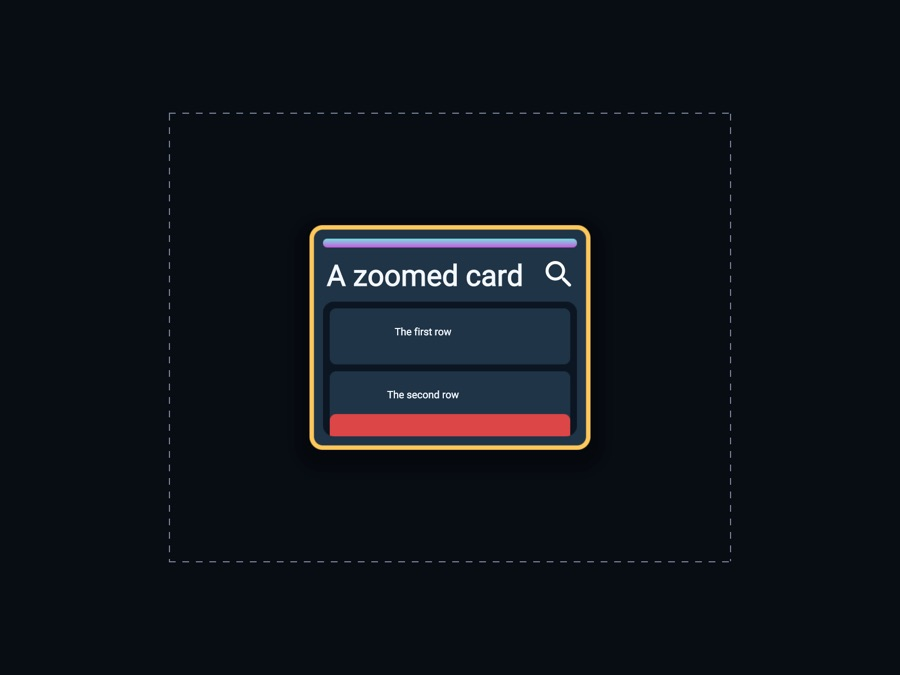
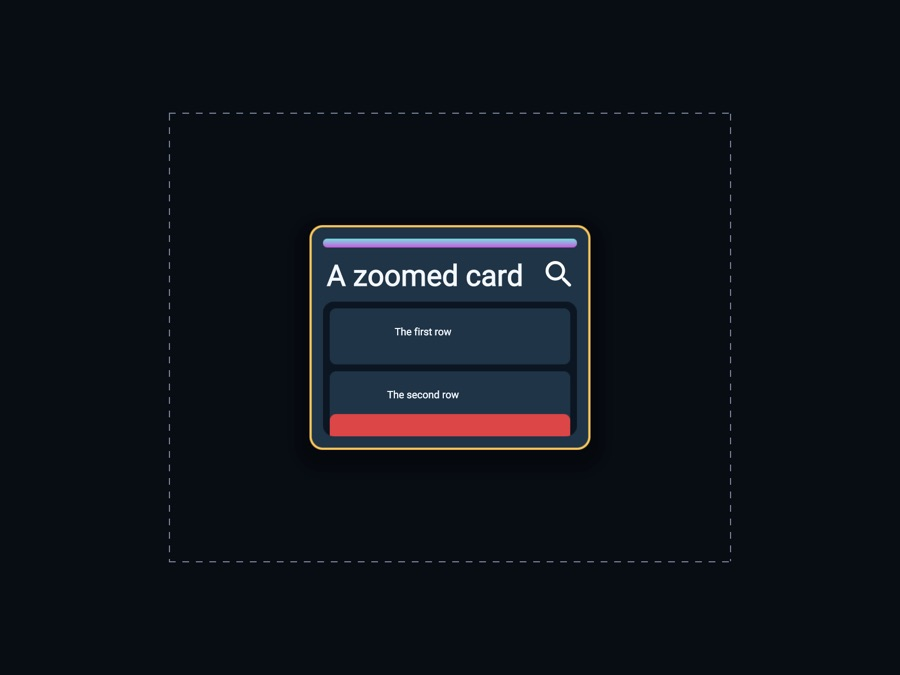
A stroke zooms with its box, and Shape.strokeFixed keeps it constant on screen
A zoomed subtree scaled everything but its strokes, so a card at 0.5 kept a stroke twice too heavy, and a
document in the UI editor did not preview its true weight. Width, dash and gap now scale. Scaling them
alone made the editor's frame and safe-area guides nearly vanish at 38% zoom, as they sit inside its
camera, so a Shape can say strokeFixed: true, like SVG's non-scaling-stroke. It is one declared property
and one test in the painter. The other option, a system that rewrites authored widths at each zoom, also
has to reach every such node. The editor's outlines and marquee are outside the camera and need nothing.

11 of the 121 references change, as document strokes get thinner at a low zoom. Each was compared with
the one before it: every change is inside the document area, none in the editor's panels.

Checks: full suite 1047 passed, with case 1364, written first, for the paint rule and the field's load
and save; gate 121 passed; checks/uiZoom and its pictures. 106 at rest is byte-identical to the commit
before, on the main and settings screens. No phone.

#26322266

Changed region(s): [[0.3422, 0.3111, 0.6533, 0.6844]]

diff --git a/QUEUE.md b/QUEUE.md
@@ -675,7 +675,7 @@ style decision from memory.
 - [x] #41374014 [ui animation 1/13: transforms] docs/ui-animation-design.md section 6. Make scale work on a subtree: TransformFx scale (and later the pose's) acts about the pivot in buildLocalTransforms, children fold through it, and shape, sprite, text, caret, clip, soft shadow, gradient, hit test and visualBounds all read one world rectangle helper (RenderPaintBox's own pivot move goes). A zoomed card with text, icons, a shadow and a clipped list must paint as one and be hit where it is drawn. Fixture for paint and hit test; screenshot at scale 0.5 and 1.2; 106 unchanged at rest. DONE in 0.3.17: buildLocalTransforms moves the origin for scale about the pivot, children fold through it; worldRectOf (lib/ui/Transform) is read by the paint box (shape, sprite, gradient, soft shadow), text, caret, clip, mask, hit test and the carousel and scroll pointer tests; RenderPaintBox keeps only the paint-only hover. A shadow blur and a text shadow offset scale; visualBoundsAt scales its cached measure instead of measuring each frame. NOT scaled: a stroke width. Scaling it made the UI editor guides nearly vanish at 38% zoom, so it is left as it was and queued as [ui zoom: strokes]. Case 1364, numbers worked by hand, written first; checks/uiZoom, pictures in docs/images/ui-zoom at 0.5, 1.0, 1.2. 106 at rest: 0 pixels differ old against new in equal fresh worktrees, main and settings screens. 121 references CardStrip and Coverage updated, since they recorded the old bug: the 1.06 card was cut by a misplaced clip and instance B and C text sat off their cards. Full suite: 1046 passed, 1 failed, 1269_relay_sessions, which flakes on the old code too, queued as [1269_relay_sessions flakes under load]; the run before the stroke revert passed all 1047. Gate 121 passed; gate 106 passed in fresh worktrees, and in the main checkout it fails on the idle step with the old code too, queued as [106: idle frames with local data]. No phone.
 - [x] #25233664 [1269_relay_sessions flakes under load] compiler/tests/cases/1269_relay_sessions fails in a parallel run but passes alone: its last line reads "timed out 4" where 3 is expected, as a peer misses its timeout window on a busy machine. Seen in 1 of 6 batches on the code before the UI zoom and in 4 of 6 after it, with the machine under heavy load both times, and the case does not import lib/ui. Make the case not depend on wall-clock timing, or find the real race. DONE, the test, not the relay: no peer misses its window. The second session's host and player went silent together. A scan counts each peer it removes and a host takes its players uncounted, so they count 1 when the host's row comes first and 2 when the player's does; player 2's removal in an earlier scan swaps the player's row ahead of its host. So the total depended on whether player 2 and the second session expired in the same 100 ms scan, seen with a log of each expiry under load, 13 of 48 runs at 4. The case's player now leaves first, so the count is exact, and expected.txt is unchanged. Checks: 96 of 96 runs match under load above 70; 6 of 6 batches of 169 cases pass. The relay is unchanged, so its timedOut stat still depends on that row order for a host and player silent together; nothing reads it but tests.
 - [x] #94807059 [106: idle frames with local data] The 106 gate fails its idle step in a checkout that has the ignored local files (examples/106_mobile_ui/assets/album_art, assets/state.json, app_cache): a paused run's last [loop] line says appSystems=2 playbackCover avatar instead of 0, so those two binding systems run on idle frames. Old and new code both do it on that data, usually but not always; a fresh worktree passes, even with app_cache copied in, so album_art or state.json is the likely cause. Find why they keep running, and make the gate not depend on local files. DONE, the gate, not the app, and the guess above was wrong: album_art is empty, and a worktree with this checkout's state.json has the same 12 loading frames as without it. Those frames were not idle. Images were still loading, each moving the texture revision that playbackCover and avatar watch, so they rightly ran. This checkout's app_cache loads for 78 frames, about 1.6 s of the gate's 2 s window, so on a busy machine its last line landed inside loading; after loading, 213 frames in a row ran 0 systems. The gate now runs 8 s and compiler/tools/assert-idle-frames.py requires 0 app systems on every frame after the last loading frame and the one after it, at least 30 of them. Checks: gate 106 passes in this checkout twice and under load, and in a fresh worktree; a planted bug, a system run on every frame, fails with NOT IDLE, 403 of 403 frames. The gate takes 6 s longer. No app change.
-- [ ] #26322266 [ui zoom: strokes] Decide and build: in a zoomed subtree (TransformFx, docs/ui-animation-design.md section 6) everything now scales except a Shape stroke width, dash and gap. Scaling them was tried and works for a card, but the UI editor's guides, outlines and marquee (examples/121_ui_editor chrome/Guides.raescene) are strokes inside its camera and nearly vanish at 38% zoom. Options: strokes scale and the editor sets its chrome's width from the zoom; or a Shape field that keeps a stroke constant on screen. Scaling them changes the 121 references, as document strokes get thinner at a low zoom.
+- [x] #26322266 [ui zoom: strokes] Decide and build: in a zoomed subtree (TransformFx, docs/ui-animation-design.md section 6) everything now scales except a Shape stroke width, dash and gap. Scaling them was tried and works for a card, but the UI editor's guides, outlines and marquee (examples/121_ui_editor chrome/Guides.raescene) are strokes inside its camera and nearly vanish at 38% zoom. Options: strokes scale and the editor sets its chrome's width from the zoom; or a Shape field that keeps a stroke constant on screen. Scaling them changes the 121 references, as document strokes get thinner at a low zoom. DONE in 0.3.18, decided: the Shape field, strokeFixed, like SVG non-scaling-stroke, default false. Width, dash and gap now scale with their box, and strokeFixed: true keeps them that wide on screen. It is one declared property and one test in the painter, and the other option has a system rewrite authored widths at each zoom. Corrected from the text above: only the frame and safe-area guides sit inside the editor camera; its outlines and marquee are in screen units and need nothing. The field loads and saves by the generic decode and encode (case 1364). 11 of the 121 references updated, as document strokes get thinner at a low zoom; every change is inside the document area, none in the panels. 106 at rest is byte-identical to before, main and settings screens. A hover now grows a stroke by its small factor. Full suite 1047 passed; gate 121 passed; pictures in docs/images/ui-zoom. No phone.
 - [ ] #98464423 [ui animation 2/13: core] docs/ui-animation-design.md sections 2, 3, 5, 11. lib/Spring.rae (analytic, response and damping, retargets keeping velocity, unit-tested at several frame rates); the theme's `motion` tokens with five built-ins and a diagnostic for an unknown name; the AnimationPose channel folded in by the transform pass; AnimationTrack with separate channels, the command inbox, retarget on a second command, end actions; the `animation` Pipeline entry between fit and transform; animationInFlight for the host's wait; RAE_ANIMATION=off and slow:N, RAE_ANIMATION_HOLD. Nothing runs and nothing draws with no track: test it.
 - [ ] #57556804 [ui animation 3/13: appear and disappear] docs/ui-animation-design.md sections 4, 5. Components Appear, Disappear, Stagger (registry, scene encode, docs/ui-scene-format.md); the start pose before the first paint; play on mount and on Active false to true; setActiveAnimated and destroyAnimated with the Leaving marker (no hits, no focus); applyOverride's Active goes through them; stagger delays in AnimationRules with maxSeconds and visible children only; the built-in bundles of section 4. Fixtures and RAE_ANIMATION_HOLD screenshots.
 - [ ] #72787635 [ui animation 4/13: layout and text] docs/ui-animation-design.md section 4. AnimateLayout: compare each marked node's place after layout, set the pose to the difference and spring it to zero, no layout on later frames, nothing on the first layout or a window resize. AnimateText: fade and roll, the old text kept as a ghost drawn for the length of the motion, no layout change from it.

diff --git a/docs/ui-animation-design.md b/docs/ui-animation-design.md
@@ -264,10 +264,14 @@ rendering is not in this design (section 15).
 
 Done in 0.3.17 for `TransformFx`; the pose comes with the core. `worldRectOf` is in
 lib/ui/Transform.rae. A shadow's blur and a text shadow's offset scale with the box, and a
-hover grows a blur by its small factor. `visualBoundsAt` scales its cached measure, so a
-zooming card does not measure its text every frame. **A stroke keeps its width:** the UI
-editor's guides, outlines and marquee are strokes inside its camera, and they must stay
-readable at any zoom, so a stroke that scales needs a way to say which is which. Case 1364 holds the rectangles and the hit test, `checks/uiZoom` paints it, and
+hover grows a blur and a stroke by its small factor. `visualBoundsAt` scales its cached
+measure, so a zooming card does not measure its text every frame.
+
+**A stroke zooms too** (0.3.18), its width, dash and gap, unless its `Shape` says
+`strokeFixed: true`, which keeps them that wide on screen at any zoom, like SVG's
+non-scaling-stroke. The UI editor's frame and safe-area guides say so: they sit inside its
+camera and would nearly vanish at a low zoom. Its outlines and marquee sit outside the
+camera, in screen units, and do not need it. Case 1364 holds the rectangles and the hit test, `checks/uiZoom` paints it, and
 at scale 1 example 106 is the same to the pixel. Pictures: docs/images/ui-zoom.
 
 ## 7. Lists

diff --git a/docs/ui-scene-format.md b/docs/ui-scene-format.md
@@ -704,3 +704,10 @@ nodes to show and hide. `Switch` has these fields:
 - The knob glides in 0.18 s, and turns round from where it is when flipped halfway. A screen opens
   with each knob at its side, nothing moving. The position is the runtime table `SwitchMotion`,
   which a scene does not author.
+
+## 19. `Shape.strokeFixed`: a stroke that does not zoom
+
+`strokeWidth`, `strokeDash` and `strokeGap` scale with a `TransformFx` or a camera above the node,
+like everything else it paints. `"strokeFixed": true` keeps them that wide on screen at any zoom, like
+SVG's non-scaling-stroke: for a guide inside an editor's camera, which would nearly vanish at a low
+zoom. The default is false. Case 1364 checks it; the UI editor's frame and safe-area guides use it.
